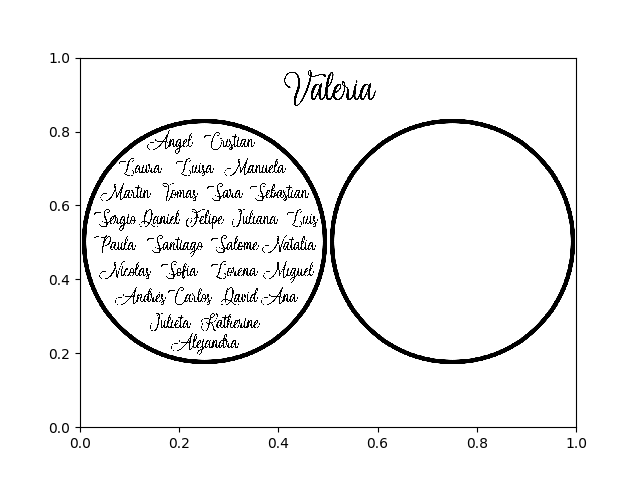
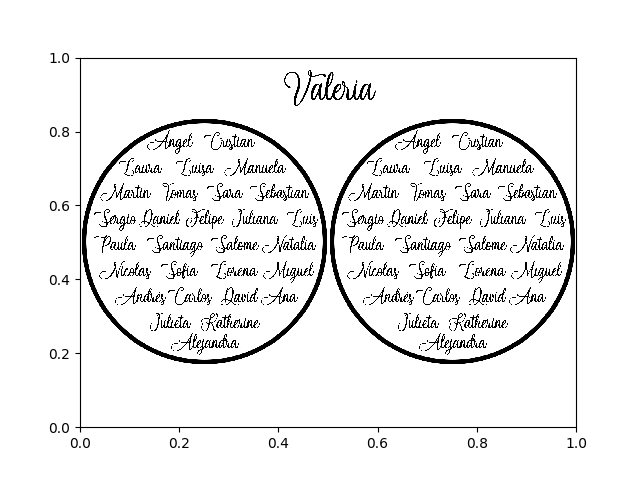
Visualizacion Final

diff --git a/Representacion_grafica3.py b/Representacion_grafica3.py
@@ -1,0 +1,245 @@
+import matplotlib.pyplot as plt
+from matplotlib.offsetbox import AnnotationBbox, OffsetImage
+
+
+def visualizacion(x,y):
+
+    fig, cuad = plt.subplots()
+    cuad.get_xaxis().set_visible(False)
+    cuad.get_yaxis().set_visible(False)
+
+    archivo_imagen = plt.imread("circle.png", format="png")
+    circulo = OffsetImage(archivo_imagen, zoom = 0.206)
+    circulo.image.axes = cuad
+
+    archivo_imagen = plt.imread("valeria.png", format="png")
+    imagenv = OffsetImage(archivo_imagen, zoom = 0.08)
+    imagenv.image.axes = cuad
+
+    archivo_imagen = plt.imread("alejandra.png", format="png")
+    imagena = OffsetImage(archivo_imagen, zoom = 0.04)
+    imagena.image.axes = cuad
+
+    archivo_imagen = plt.imread("angel.png", format="png")
+    imagenb = OffsetImage(archivo_imagen, zoom = 0.04)
+    imagenb.image.axes = cuad
+
+    archivo_imagen = plt.imread("cristian.png", format="png")
+    imagenc = OffsetImage(archivo_imagen, zoom = 0.04)
+    imagenc.image.axes = cuad
+
+    archivo_imagen = plt.imread("laura.png", format="png")
+    imagenl = OffsetImage(archivo_imagen, zoom = 0.04)
+    imagenl.image.axes = cuad
+
+    archivo_imagen = plt.imread("luisa.png", format="png")
+    imageng = OffsetImage(archivo_imagen, zoom = 0.04)
+    imageng.image.axes = cuad
+
+    archivo_imagen = plt.imread("martin.png", format="png")
+    imagenm = OffsetImage(archivo_imagen, zoom = 0.04)
+    imagenm.image.axes = cuad
+
+    archivo_imagen = plt.imread("tomas.png", format="png")
+    imagent = OffsetImage(archivo_imagen, zoom = 0.04)
+    imagent.image.axes = cuad
+
+    archivo_imagen = plt.imread("sara.png", format="png")
+    imagen1 = OffsetImage(archivo_imagen, zoom = 0.04)
+    imagen1.image.axes = cuad
+
+    archivo_imagen = plt.imread("sebastian.png", format="png")
+    imagen2 = OffsetImage(archivo_imagen, zoom = 0.04)
+    imagen2.image.axes = cuad
+
+    archivo_imagen = plt.imread("sergio.png", format="png")
+    imagen3 = OffsetImage(archivo_imagen, zoom = 0.04)
+    imagen3.image.axes = cuad
+
+    archivo_imagen = plt.imread("daniel.png", format="png")
+    imagend = OffsetImage(archivo_imagen, zoom = 0.04)
+    imagend.image.axes = cuad
+
+    archivo_imagen = plt.imread("felipe.png", format="png")
+    imagenf = OffsetImage(archivo_imagen, zoom = 0.04)
+    imagenf.image.axes = cuad
+
+    archivo_imagen = plt.imread("juliana.png", format="png")
+    imagenj = OffsetImage(archivo_imagen, zoom = 0.04)
+    imagenj.image.axes = cuad
+
+    archivo_imagen = plt.imread("paula.png", format="png")
+    imagenp = OffsetImage(archivo_imagen, zoom = 0.04)
+    imagenp.image.axes = cuad
+
+    archivo_imagen = plt.imread("santiago.png", format="png")
+    imagenh = OffsetImage(archivo_imagen, zoom = 0.04)
+    imagenh.image.axes = cuad
+
+    archivo_imagen = plt.imread("salome.png", format="png")
+    imagens = OffsetImage(archivo_imagen, zoom = 0.04)
+    imagens.image.axes = cuad
+
+    archivo_imagen = plt.imread("natalia.png", format="png")
+    imagenn = OffsetImage(archivo_imagen, zoom = 0.04)
+    imagenn.image.axes = cuad
+
+    archivo_imagen = plt.imread("nicolas.png", format="png")
+    imagenz = OffsetImage(archivo_imagen, zoom = 0.04)
+    imagenz.image.axes = cuad
+
+    archivo_imagen = plt.imread("sofia.png", format="png")
+    imagen4 = OffsetImage(archivo_imagen, zoom = 0.04)
+    imagen4.image.axes = cuad
+
+    archivo_imagen = plt.imread("lorena.png", format="png")
+    imagene = OffsetImage(archivo_imagen, zoom = 0.04)
+    imagene.image.axes = cuad
+
+    archivo_imagen = plt.imread("ana.png", format="png")
+    imageni = OffsetImage(archivo_imagen, zoom = 0.04)
+    imageni.image.axes = cuad
+
+    archivo_imagen = plt.imread("andres.png", format="png")
+    imageno = OffsetImage(archivo_imagen, zoom = 0.04)
+    imageno.image.axes = cuad
+
+    archivo_imagen = plt.imread("carlos.png", format="png")
+    imagenq = OffsetImage(archivo_imagen, zoom = 0.04)
+    imagenq.image.axes = cuad
+
+    archivo_imagen = plt.imread("david.png", format="png")
+    imagenr = OffsetImage(archivo_imagen, zoom = 0.04)
+    imagenr.image.axes = cuad
+
+    archivo_imagen = plt.imread("julieta.png", format="png")
+    imagenu = OffsetImage(archivo_imagen, zoom = 0.04)
+    imagenu.image.axes = cuad
+
+    archivo_imagen = plt.imread("katherine.png", format="png")
+    imagenk = OffsetImage(archivo_imagen, zoom = 0.04)
+    imagenk.image.axes = cuad
+
+    archivo_imagen = plt.imread("luis.png", format="png")
+    imagenw = OffsetImage(archivo_imagen, zoom = 0.04)
+    imagenw.image.axes = cuad
+
+    archivo_imagen = plt.imread("manuela.png", format="png")
+    imagenx = OffsetImage(archivo_imagen, zoom = 0.04)
+    imagenx.image.axes = cuad
+
+    archivo_imagen = plt.imread("miguel.png", format="png")
+    imageny = OffsetImage(archivo_imagen, zoom = 0.04)
+    imageny.image.axes = cuad
+
+    direcciones = {}
+    direcciones['v'] = [0.5, 0.9]  # Valeria
+
+
+    direcciones['b'] = [0.18, 0.765]  # Angel
+    direcciones['c'] = [0.3, 0.765]  # Cristian
+
+    direcciones['l'] = [0.12, 0.695]  # Laura
+    direcciones['g'] = [0.23, 0.695]  # Luisa
+    direcciones['x'] = [0.35, 0.695]  # Manuela
+
+    direcciones['m'] = [0.09, 0.625]  # Martin
+    direcciones['t'] = [0.2, 0.625]  # Tomas
+    direcciones['1'] = [0.29, 0.625]  # Sara
+    direcciones['2'] = [0.4, 0.625]  # Sebastian
+
+    direcciones['3'] = [0.07, 0.555]  # Sergio
+    direcciones['d'] = [0.16, 0.555]  # Daniel
+    direcciones['f'] = [0.25, 0.555]  # Felipe
+    direcciones['j'] = [0.35, 0.555]  # Juliana
+    direcciones['w'] = [0.448, 0.555]  # Luis
+
+    direcciones['p'] = [0.07, 0.485]  # Paula
+    direcciones['h'] = [0.19, 0.485]  # Santiago
+    direcciones['s'] = [0.31, 0.485]  # Salome
+    direcciones['n'] = [0.42, 0.485]  # Natalia
+
+    direcciones['z'] = [0.09, 0.415]  # Nicolas
+    direcciones['4'] = [0.2, 0.415]  # Sofia
+    direcciones['e'] = [0.31, 0.415]  # Lorena
+    direcciones['y'] = [0.42, 0.415]  # Miguel
+
+    direcciones['o'] = [0.12, 0.345]  # Andres
+    direcciones['q'] = [0.22, 0.345]  # Carlos
+    direcciones['r'] = [0.32, 0.345]  # David
+    direcciones['i'] = [0.4, 0.345]  # Ana
+
+    direcciones['u'] = [0.18, 0.275] # Julieta
+    direcciones['k'] = [0.3, 0.275]  #  Katherine
+
+    direcciones['a'] = [0.25, 0.22] # Alejandra
+
+
+    direcciones[31] = [0.25, 0.5] # Circulo
+    direcciones[32] = [0.75, 0.5] # Circulo
+
+ #  SEGUNDO CIRCULO
+
+    direcciones['b*'] = [0.68, 0.765] # Angel
+    direcciones['c*'] = [0.8, 0.765] # Cristian
+
+    direcciones['l*'] = [0.62, 0.695] # Laura
+    direcciones['g*'] = [0.73, 0.695] # Luisa
+    direcciones['x*'] = [0.85, 0.695] # Manuela
+
+    direcciones['m*'] = [0.59, 0.625] # Martin
+    direcciones['t*'] = [0.7, 0.625] # Tomas
+    direcciones['1*'] = [0.79, 0.625] # Sara
+    direcciones['2*'] = [0.9, 0.625] # Sebastian
+
+    direcciones['3*'] = [0.57, 0.555] # Sergio
+    direcciones['d*'] = [0.66, 0.555] # Daniel
+    direcciones['f*'] = [0.75, 0.555] # Felipe
+    direcciones['j*'] = [0.85, 0.555] # Juliana
+    direcciones['w*'] = [0.948, 0.555] # Luis
+
+    direcciones['p*'] = [0.57, 0.485] # Paula
+    direcciones['h*'] = [0.69, 0.485] # Santiago
+    direcciones['s*'] = [0.81, 0.485] # Salome
+    direcciones['n*'] = [0.92, 0.485] # Natalia
+
+    direcciones['z*'] = [0.59, 0.415] # Nicolas
+    direcciones['4*'] = [0.7, 0.415] # Sofia
+    direcciones['e*'] = [0.81, 0.415] # Lorena
+    direcciones['y*'] = [0.92, 0.415] # Miguel
+
+    direcciones['o*'] = [0.62, 0.345] # Andres
+    direcciones['q*'] = [0.72, 0.345] # Carlos
+    direcciones['r*'] = [0.82, 0.345] # David
+    direcciones['i*'] = [0.9, 0.345] # Ana
+
+    direcciones['u*'] = [0.68, 0.275] # Julieta
+    direcciones['k*'] = [0.8, 0.275] # Katherine
+
+    direcciones['a*'] = [0.75, 0.22] # Alejandra
+
+    for q in range(31,33): # Inserta circulos
+        ab = AnnotationBbox(circulo, direcciones[int(q)], frameon=False)
+        cuad.add_artist(ab)
+
+
+    ab = AnnotationBbox(imagenv, direcciones['v'], frameon=False) # Inserta Valeria
+    cuad.add_artist(ab)
+
+
+    for l in x: # Depende de el valor de x, inserta nombre correspondiente
+            if x[l] == 0:
+                Personas= AnnotationBbox(eval("imagen" + l), direcciones[l], frameon = False)
+                cuad.add_artist(Personas)
+            elif x[l] == 1:
+                Personas2= AnnotationBbox(eval("imagen" + l), direcciones[l + '*'], frameon = False)
+                cuad.add_artist(Personas2)
+
+
+    fig.savefig("result_" + str(y) + ".png" )
+
+
+prueba = {'j':1, 'b':0, 'm':0, 'h':1, 's':1, 'd':1, 'c':0, 't':0, 'e':1, 'f':0,
+          'a':1, 'p':0, 'l':1, 'g':1}
+
+visualizacion(prueba,"ok")

diff --git a/Representacion_grafica2.py b/Representacion_grafica2.py
@@ -134,89 +134,89 @@ def visualizacion(x,y):
 
 
     direcciones = {}
-    direcciones[1] = [0.5, 0.9]
+    direcciones[1] = [0.5, 0.9]#valeria
 
 
-    direcciones[3] = [0.18, 0.765]
-    direcciones[4] = [0.3, 0.765]
+    direcciones[3] = [0.18, 0.765]#angel
+    direcciones[4] = [0.3, 0.765]#cristian
 
-    direcciones[5] = [0.12, 0.695]
-    direcciones[6] = [0.23, 0.695]
-    direcciones[29] = [0.35, 0.695]
+    direcciones[5] = [0.12, 0.695]#laura
+    direcciones[6] = [0.23, 0.695]#luisa
+    direcciones[29] = [0.35, 0.695]#manuela
 
-    direcciones[7] = [0.09, 0.625]
-    direcciones[8] = [0.2, 0.625]
-    direcciones[9] = [0.29, 0.625]
-    direcciones[10] = [0.4, 0.625]
+    direcciones[7] = [0.09, 0.625]#martin
+    direcciones[8] = [0.2, 0.625]#tomas
+    direcciones[9] = [0.29, 0.625]#Sara
+    direcciones[10] = [0.4, 0.625]#sebastian
 
-    direcciones[11] = [0.07, 0.555]
-    direcciones[12] = [0.16, 0.555]
-    direcciones[13] = [0.25, 0.555]
-    direcciones[14] = [0.35, 0.555]
-    direcciones[28] = [0.448, 0.555]
+    direcciones[11] = [0.07, 0.555]#sergio
+    direcciones[12] = [0.16, 0.555]#daniel
+    direcciones[13] = [0.25, 0.555]#felipe
+    direcciones[14] = [0.35, 0.555]#juliana
+    direcciones[28] = [0.448, 0.555]#luis
 
-    direcciones[15] = [0.07, 0.485]
-    direcciones[16] = [0.19, 0.485]
-    direcciones[17] = [0.31, 0.485]
-    direcciones[18] = [0.42, 0.485]
+    direcciones[15] = [0.07, 0.485]#paula
+    direcciones[16] = [0.19, 0.485]#santiago
+    direcciones[17] = [0.31, 0.485]#salome
+    direcciones[18] = [0.42, 0.485]#natalia
 
-    direcciones[19] = [0.09, 0.415]
-    direcciones[20] = [0.2, 0.415]
-    direcciones[21] = [0.31, 0.415]
-    direcciones[30] = [0.42, 0.415]
+    direcciones[19] = [0.09, 0.415]#nicolas
+    direcciones[20] = [0.2, 0.415]#sofia
+    direcciones[21] = [0.31, 0.415]#lorena
+    direcciones[30] = [0.42, 0.415]#miguel
 
-    direcciones[23] = [0.12, 0.345]
-    direcciones[24] = [0.22, 0.345]
-    direcciones[25] = [0.32, 0.345]
-    direcciones[22] = [0.4, 0.345]
+    direcciones[23] = [0.12, 0.345]#andres
+    direcciones[24] = [0.22, 0.345]#carlos
+    direcciones[25] = [0.32, 0.345]#david
+    direcciones[22] = [0.4, 0.345]#ana
 
-    direcciones[26] = [0.18, 0.275]
-    direcciones[27] = [0.3, 0.275]
+    direcciones[26] = [0.18, 0.275]#julieta
+    direcciones[27] = [0.3, 0.275]#katherine
 
-    direcciones[2] = [0.25, 0.22]
+    direcciones[2] = [0.25, 0.22]#alejandra
 
 
-    direcciones[31] = [0.25, 0.5]
-    direcciones[32] = [0.75, 0.5]
+    direcciones[31] = [0.25, 0.5]#circulo
+    direcciones[32] = [0.75, 0.5]#circulo
 
 # SEGUNDO CIRCULO
-    direcciones[34] = [0.68, 0.765]
-    direcciones[35] = [0.8, 0.765]
+    direcciones[34] = [0.68, 0.765]#angel
+    direcciones[35] = [0.8, 0.765]#cristian
 
-    direcciones[36] = [0.62, 0.695]
-    direcciones[37] = [0.73, 0.695]
-    direcciones[60] = [0.85, 0.695]
+    direcciones[36] = [0.62, 0.695]#laura
+    direcciones[37] = [0.73, 0.695]#luisa
+    direcciones[60] = [0.85, 0.695]#manuela
 
-    direcciones[38] = [0.59, 0.625]
-    direcciones[39] = [0.7, 0.625]
-    direcciones[40] = [0.79, 0.625]
-    direcciones[41] = [0.9, 0.625]
+    direcciones[38] = [0.59, 0.625]#martin
+    direcciones[39] = [0.7, 0.625]#tomas
+    direcciones[40] = [0.79, 0.625]#Sara
+    direcciones[41] = [0.9, 0.625]#sebastian
 
-    direcciones[42] = [0.57, 0.555]
-    direcciones[43] = [0.66, 0.555]
-    direcciones[44] = [0.75, 0.555]
-    direcciones[45] = [0.85, 0.555]
-    direcciones[59] = [0.948, 0.555]
+    direcciones[42] = [0.57, 0.555]#sergio
+    direcciones[43] = [0.66, 0.555]#daniel
+    direcciones[44] = [0.75, 0.555]#felipe
+    direcciones[45] = [0.85, 0.555]#juliana
+    direcciones[59] = [0.948, 0.555]#luis
 
-    direcciones[46] = [0.57, 0.485]
-    direcciones[47] = [0.69, 0.485]
-    direcciones[48] = [0.81, 0.485]
-    direcciones[49] = [0.92, 0.485]
+    direcciones[46] = [0.57, 0.485]#paula
+    direcciones[47] = [0.69, 0.485]#santiago
+    direcciones[48] = [0.81, 0.485]#salome
+    direcciones[49] = [0.92, 0.485]#natalia
 
-    direcciones[50] = [0.59, 0.415]
-    direcciones[51] = [0.7, 0.415]
-    direcciones[52] = [0.81, 0.415]
-    direcciones[61] = [0.92, 0.415]
+    direcciones[50] = [0.59, 0.415]#nicolas
+    direcciones[51] = [0.7, 0.415]#sofia
+    direcciones[52] = [0.81, 0.415]#lorena
+    direcciones[61] = [0.92, 0.415]#miguel
 
-    direcciones[54] = [0.62, 0.345]
-    direcciones[55] = [0.72, 0.345]
-    direcciones[56] = [0.82, 0.345]
-    direcciones[53] = [0.9, 0.345]
+    direcciones[54] = [0.62, 0.345]#andres
+    direcciones[55] = [0.72, 0.345]#carlos
+    direcciones[56] = [0.82, 0.345]#david
+    direcciones[53] = [0.9, 0.345]#ana
 
-    direcciones[57] = [0.68, 0.275]
-    direcciones[58] = [0.8, 0.275]
+    direcciones[57] = [0.68, 0.275]#julieta
+    direcciones[58] = [0.8, 0.275]#katherine
 
-    direcciones[33] = [0.75, 0.22]
+    direcciones[33] = [0.75, 0.22]#alejandra
 
     for q in range(31,33):
         ab = AnnotationBbox(circulo, direcciones[int(q)], frameon=False)
